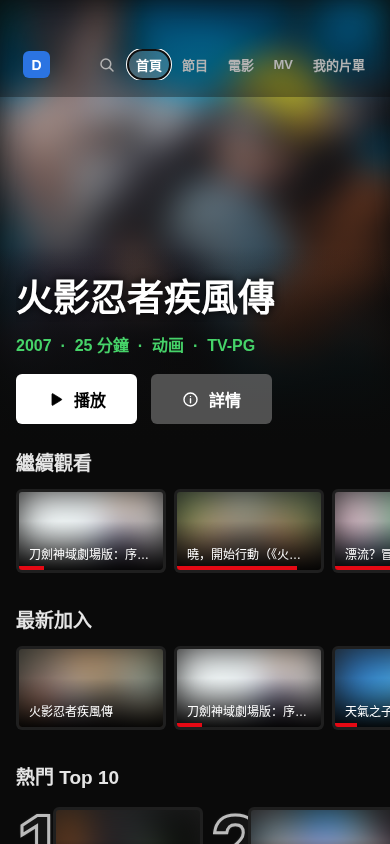
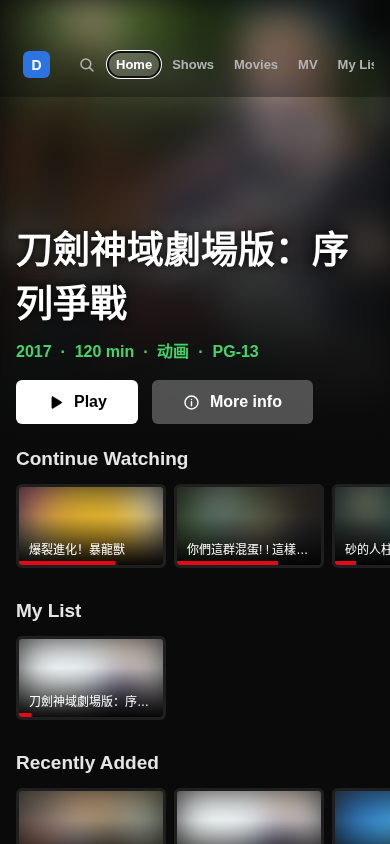
v2.1.0: English UI by default, language picker, English screenshots, Netflix-inspired note

diff --git a/src/jellyfin.ts b/src/jellyfin.ts
@@ -78,7 +78,7 @@ function deviceName() {
 
 async function authHeader(token?: string) {
   const id = await getDeviceId();
-  return `MediaBrowser Client="Jefflix", Device="${deviceName()}", DeviceId="${id}", Version="2.0.0"${token ? `, Token="${token}"` : ''}`;
+  return `MediaBrowser Client="Jefflix", Device="${deviceName()}", DeviceId="${id}", Version="2.1.0"${token ? `, Token="${token}"` : ''}`;
 }
 
 async function call<T>(server: string, method: string, path: string, body?: unknown, token = session?.token): Promise<T> {

diff --git a/README.md b/README.md
@@ -9,7 +9,7 @@
   <img src="https://img.shields.io/badge/platforms-macOS%20%7C%20Windows%20%7C%20Linux%20%7C%20iPhone%20%7C%20LG%20TV%20%7C%20Web-333" alt="Platforms">
 </p>
 
-<p align="center"><b>Your Jellyfin, on every screen.</b><br>A cinematic home screen for the Jellyfin server you already run — on macOS, Windows, Linux, iPhone, LG TV and the web.</p>
+<p align="center"><b>Your Jellyfin, on every screen.</b><br>A cinematic, Netflix-inspired home screen for the Jellyfin server you already run — on macOS, Windows, Linux, iPhone, LG TV and the web.</p>
 
 <p align="center"><a href="https://jefflix-app.vercel.app/download/"><b>Download</b></a> · <a href="https://jefflix-app.vercel.app/docs/">Docs</a> · <a href="https://discord.gg/KSp8ZRMvQP">Discord</a> · <a href="https://jefflix-app.vercel.app">Website</a></p>
 
@@ -66,12 +66,12 @@ Sign in on the TV by scanning a QR code with your phone (Jellyfin Quick Connect)
 
 | Platform | Get it |
 | --- | --- |
-| macOS 11+ (Apple Silicon + Intel) | [Jefflix_2.0.0_universal.dmg](https://github.com/JeffreyLauDev/jefflix/releases/latest/download/Jefflix_2.0.0_universal.dmg) |
-| Windows 10 / 11 | [Jefflix_2.0.0_x64-setup.exe](https://github.com/JeffreyLauDev/jefflix/releases/latest/download/Jefflix_2.0.0_x64-setup.exe) |
-| Linux (Debian / Ubuntu) | [Jefflix_2.0.0_amd64.deb](https://github.com/JeffreyLauDev/jefflix/releases/latest/download/Jefflix_2.0.0_amd64.deb) |
-| LG TV (webOS 4+) | [com.jeffrey.jefflix_2.0.0_all.ipk](https://github.com/JeffreyLauDev/jefflix/releases/latest/download/com.jeffrey.jefflix_2.0.0_all.ipk) · [install guide](https://jefflix-app.vercel.app/docs/install/lg-webos/) |
+| macOS 11+ (Apple Silicon + Intel) | [Jefflix_2.1.0_universal.dmg](https://github.com/JeffreyLauDev/jefflix/releases/latest/download/Jefflix_2.1.0_universal.dmg) |
+| Windows 10 / 11 | [Jefflix_2.1.0_x64-setup.exe](https://github.com/JeffreyLauDev/jefflix/releases/latest/download/Jefflix_2.1.0_x64-setup.exe) |
+| Linux (Debian / Ubuntu) | [Jefflix_2.1.0_amd64.deb](https://github.com/JeffreyLauDev/jefflix/releases/latest/download/Jefflix_2.1.0_amd64.deb) |
+| LG TV (webOS 4+) | [com.jeffrey.jefflix_2.1.0_all.ipk](https://github.com/JeffreyLauDev/jefflix/releases/latest/download/com.jeffrey.jefflix_2.1.0_all.ipk) · [install guide](https://jefflix-app.vercel.app/docs/install/lg-webos/) |
 | iPhone / iPad | TestFlight beta — [coming soon](https://jefflix-app.vercel.app/docs/install/ios/) |
-| Web (self-host) | [jefflix-web-2.0.0.zip](https://github.com/JeffreyLauDev/jefflix/releases/latest/download/jefflix-web-2.0.0.zip) |
+| Web (self-host) | [jefflix-web-2.1.0.zip](https://github.com/JeffreyLauDev/jefflix/releases/latest/download/jefflix-web-2.1.0.zip) |
 
 All install guides: https://jefflix-app.vercel.app/download/
 

diff --git a/CHANGELOG.md b/CHANGELOG.md
@@ -2,7 +2,7 @@
 
 All notable changes to Jefflix. Format: [Keep a Changelog](https://keepachangelog.com/en/1.1.0/). Versions: [SemVer](https://semver.org/).
 
-## [Unreleased]
+## [2.1.0] — 2026-11-08
 
 ### Added
 - English UI by default, plus 廣東話, 繁體中文, 简体中文, 日本語, 한국어 and Español. Change it from the profile menu or the sign-in screen; the choice is saved on the device (#1).
@@ -19,4 +19,5 @@ First public release.
 - Search with an on-screen keyboard for remotes.
 - TV sign-in with a QR code and Jellyfin Quick Connect.
 
+[2.1.0]: https://github.com/JeffreyLauDev/jefflix/releases/tag/v2.1.0
 [2.0.0]: https://github.com/JeffreyLauDev/jefflix/releases/tag/v2.0.0
